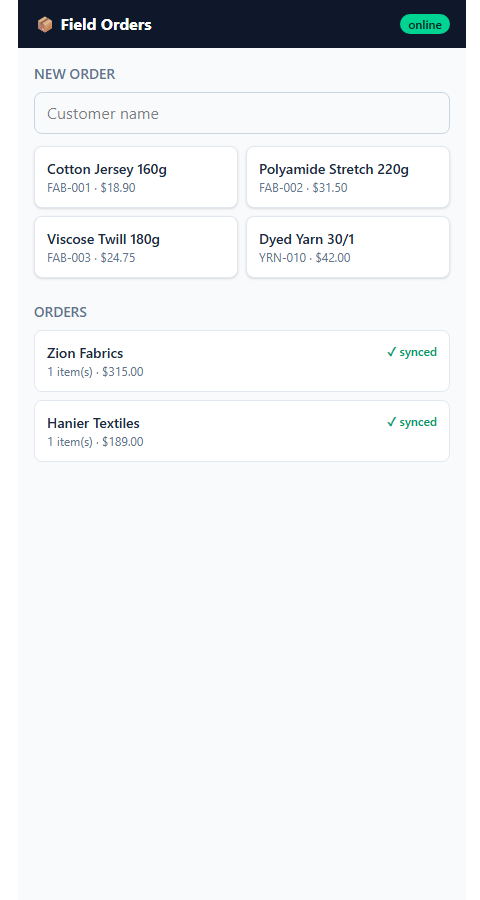
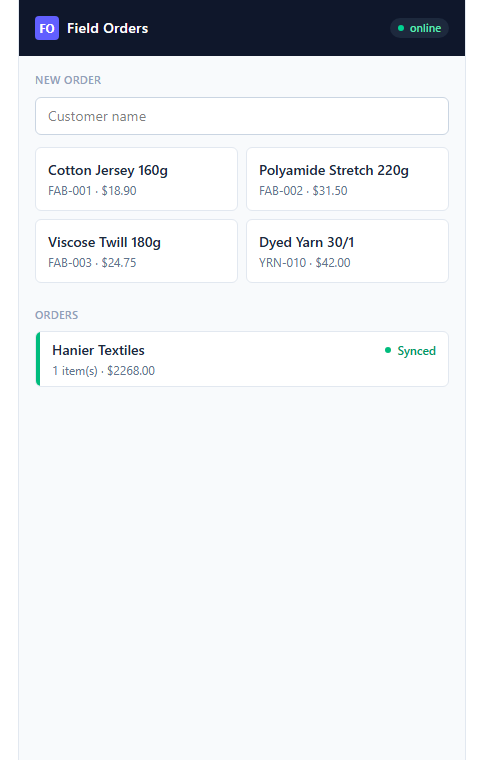
redesign: native-style mobile shell with sober palette and status accents
Replaces the floaty pastel cards and emoji with a solid app bar, a dot+label connection indicator, a sober slate/indigo palette, and order rows with a colored left accent (amber=queued, emerald=synced) — closer to a real field app.

diff --git a/frontend/src/App.tsx b/frontend/src/App.tsx
@@ -7,6 +7,8 @@ interface CartLine {
   quantity: number;
 }
 
+const sectionLabel = "mb-2 text-[11px] font-semibold uppercase tracking-wide text-slate-400";
+
 export default function App() {
   const [online, setOnline] = useState(navigator.onLine);
   const [products, setProducts] = useState<Product[]>([]);
@@ -25,7 +27,7 @@ export default function App() {
       const n = await flushOutbox();
       setPending(loadOutbox());
       if (n > 0) {
-        setToast(`Synced ${n} order${n > 1 ? "s" : ""} ✓`);
+        setToast(`Synced ${n} order${n > 1 ? "s" : ""}`);
         refreshSynced();
       }
     } catch {
@@ -88,49 +90,57 @@ export default function App() {
   const cartTotal = cart.reduce((s, l) => s + l.quantity * l.product.price, 0);
 
   return (
-    <div className="mx-auto min-h-screen max-w-md bg-slate-50 pb-24">
-      <header className="sticky top-0 z-10 flex items-center justify-between bg-slate-900 px-4 py-3 text-white">
-        <h1 className="font-bold">📦 Field Orders</h1>
-        <div className="flex items-center gap-2 text-xs">
+    <div className="mx-auto flex min-h-screen max-w-md flex-col border-x border-slate-200 bg-slate-50">
+      <header className="sticky top-0 z-10 flex h-14 items-center justify-between bg-slate-900 px-4 text-white">
+        <div className="flex items-center gap-2">
+          <div className="flex h-6 w-6 items-center justify-center rounded bg-indigo-500 text-xs font-bold">
+            FO
+          </div>
+          <span className="text-sm font-semibold tracking-wide">Field Orders</span>
+        </div>
+        <div className="flex items-center gap-2 text-[11px]">
           {pending.length > 0 && (
-            <span className="rounded-full bg-amber-400 px-2 py-0.5 font-semibold text-amber-950">
-              {pending.length} pending sync
+            <span className="rounded-full bg-amber-500/20 px-2 py-0.5 font-medium text-amber-300">
+              {pending.length} queued
             </span>
           )}
           <span
             data-testid="conn"
-            className={`rounded-full px-2 py-0.5 font-semibold ${
-              online ? "bg-emerald-400 text-emerald-950" : "bg-rose-400 text-rose-950"
-            }`}
+            className="flex items-center gap-1.5 rounded-full bg-slate-800 px-2 py-0.5 font-medium"
           >
-            {online ? "online" : "offline"}
+            <span
+              className={`h-1.5 w-1.5 rounded-full ${online ? "bg-emerald-400" : "bg-rose-400"}`}
+            />
+            <span className={online ? "text-emerald-300" : "text-rose-300"}>
+              {online ? "online" : "offline"}
+            </span>
           </span>
         </div>
       </header>
 
       {toast && (
-        <div className="mx-4 mt-3 rounded-lg bg-emerald-100 px-3 py-2 text-sm text-emerald-800">
+        <div className="border-b border-emerald-200 bg-emerald-50 px-4 py-2 text-sm text-emerald-800">
           {toast}
         </div>
       )}
 
       <section className="px-4 pt-4">
-        <h2 className="mb-2 text-sm font-semibold text-slate-500">NEW ORDER</h2>
+        <h2 className={sectionLabel}>New order</h2>
         <input
           value={customer}
           onChange={(e) => setCustomer(e.target.value)}
           placeholder="Customer name"
-          className="mb-3 w-full rounded-lg border border-slate-300 px-3 py-2"
+          className="mb-3 w-full rounded-md border border-slate-300 bg-white px-3 py-2 text-sm focus:border-indigo-500 focus:outline-none focus:ring-1 focus:ring-indigo-500"
         />
         <div className="grid grid-cols-2 gap-2">
           {products.map((p) => (
             <button
               key={p.id}
               onClick={() => addToCart(p)}
-              className="rounded-lg border border-slate-200 bg-white p-3 text-left shadow-sm active:bg-sky-50"
+              className="rounded-md border border-slate-200 bg-white p-3 text-left transition-colors active:border-indigo-400 active:bg-indigo-50"
             >
               <p className="text-sm font-medium text-slate-800">{p.name}</p>
-              <p className="text-xs text-slate-500">
+              <p className="mt-0.5 text-xs tabular-nums text-slate-500">
                 {p.sku} · ${p.price.toFixed(2)}
               </p>
             </button>
@@ -138,62 +148,82 @@ export default function App() {
         </div>
 
         {cart.length > 0 && (
-          <div className="mt-3 rounded-lg border border-slate-200 bg-white p-3 shadow-sm">
-            {cart.map((l) => (
-              <div key={l.product.id} className="flex justify-between py-1 text-sm">
-                <span className="text-slate-700">
-                  {l.product.name} × {l.quantity}
-                </span>
-                <span className="font-medium text-slate-800">
-                  ${(l.quantity * l.product.price).toFixed(2)}
-                </span>
+          <div className="mt-3 overflow-hidden rounded-md border border-slate-200 bg-white">
+            <div className="px-3 py-2">
+              {cart.map((l) => (
+                <div key={l.product.id} className="flex justify-between py-1 text-sm">
+                  <span className="text-slate-700">
+                    {l.product.name} <span className="tabular-nums text-slate-400">× {l.quantity}</span>
+                  </span>
+                  <span className="font-medium tabular-nums text-slate-800">
+                    ${(l.quantity * l.product.price).toFixed(2)}
+                  </span>
+                </div>
+              ))}
+              <div className="mt-1 flex justify-between border-t border-slate-100 pt-2 text-sm font-semibold">
+                <span>Total</span>
+                <span className="tabular-nums">${cartTotal.toFixed(2)}</span>
               </div>
-            ))}
-            <div className="mt-2 flex justify-between border-t border-slate-100 pt-2 text-sm font-bold">
-              <span>Total</span>
-              <span>${cartTotal.toFixed(2)}</span>
             </div>
             <button
               onClick={saveOrder}
               disabled={!customer}
-              className="mt-3 w-full rounded-lg bg-sky-600 py-2.5 font-medium text-white disabled:opacity-40"
+              className="w-full bg-indigo-600 py-2.5 text-sm font-medium text-white hover:bg-indigo-700 disabled:opacity-40"
             >
-              Save order {online ? "" : "(offline)"}
+              Save order{online ? "" : " · offline"}
             </button>
           </div>
         )}
       </section>
 
-      <section className="px-4 pt-6">
-        <h2 className="mb-2 text-sm font-semibold text-slate-500">ORDERS</h2>
-        <ul className="space-y-2">
+      <section className="px-4 pb-8 pt-6">
+        <h2 className={sectionLabel}>Orders</h2>
+        <ul className="space-y-1.5">
           {pending.map((o) => (
             <li
               key={o.client_id}
-              className="rounded-lg border border-amber-200 bg-amber-50 p-3 text-sm"
+              className="flex items-stretch overflow-hidden rounded-md border border-slate-200 bg-white"
             >
-              <div className="flex justify-between">
-                <span className="font-medium text-slate-800">{o.customer}</span>
-                <span className="text-xs font-semibold text-amber-700">⏳ waiting for sync</span>
+              <div className="w-1 bg-amber-400" />
+              <div className="flex-1 px-3 py-2">
+                <div className="flex items-center justify-between">
+                  <span className="text-sm font-medium text-slate-800">{o.customer}</span>
+                  <span className="flex items-center gap-1.5 text-xs font-medium text-amber-600">
+                    <span className="h-1.5 w-1.5 rounded-full bg-amber-500" />
+                    Queued
+                  </span>
+                </div>
+                <p className="mt-0.5 text-xs tabular-nums text-slate-500">
+                  {o.items.length} item(s) · saved{" "}
+                  {new Date(o.created_offline_at).toLocaleTimeString()}
+                </p>
               </div>
-              <p className="text-xs text-slate-500">
-                {o.items.length} item(s) · saved {new Date(o.created_offline_at).toLocaleTimeString()}
-              </p>
             </li>
           ))}
           {synced.map((o) => (
-            <li key={o.client_id} className="rounded-lg border border-slate-200 bg-white p-3 text-sm">
-              <div className="flex justify-between">
-                <span className="font-medium text-slate-800">{o.customer}</span>
-                <span className="text-xs font-semibold text-emerald-600">✓ synced</span>
+            <li
+              key={o.client_id}
+              className="flex items-stretch overflow-hidden rounded-md border border-slate-200 bg-white"
+            >
+              <div className="w-1 bg-emerald-500" />
+              <div className="flex-1 px-3 py-2">
+                <div className="flex items-center justify-between">
+                  <span className="text-sm font-medium text-slate-800">{o.customer}</span>
+                  <span className="flex items-center gap-1.5 text-xs font-medium text-emerald-600">
+                    <span className="h-1.5 w-1.5 rounded-full bg-emerald-500" />
+                    Synced
+                  </span>
+                </div>
+                <p className="mt-0.5 text-xs tabular-nums text-slate-500">
+                  {o.items.length} item(s) · ${o.total.toFixed(2)}
+                </p>
               </div>
-              <p className="text-xs text-slate-500">
-                {o.items.length} item(s) · ${o.total.toFixed(2)}
-              </p>
             </li>
           ))}
           {pending.length === 0 && synced.length === 0 && (
-            <p className="text-sm text-slate-400">No orders yet — tap a product to start one.</p>
+            <p className="py-8 text-center text-sm text-slate-400">
+              No orders yet — tap a product to start one.
+            </p>
           )}
         </ul>
       </section>
